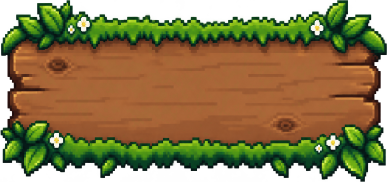
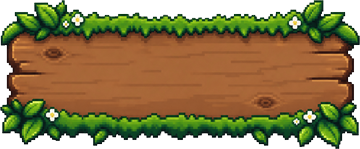
Нормализация спрайтов 64x64, роли 48x48, кнопки 360; версия 1.0.28

diff --git a/core/src/main/kotlin/com/catsandmouses/entities/Mouse.kt b/core/src/main/kotlin/com/catsandmouses/entities/Mouse.kt
@@ -86,6 +86,9 @@ class Mouse(private val maze: MazeLoader, startCol: Int, startRow: Int) {
     fun draw(spriteBatch: SpriteBatch, region: TextureRegion) {
         val size = SPRITE_SIZE
         val half = size / 2f
+        // Спрайт мыши теперь нарисован «вниз», как у котов;
+        // компенсируем разницу, чтобы мышь смотрела в направлении движения.
+        val renderRotation = rotation + SPRITE_ROTATION_OFFSET
         spriteBatch.draw(
             region,
             position.x - half,
@@ -96,13 +99,14 @@ class Mouse(private val maze: MazeLoader, startCol: Int, startRow: Int) {
             size,
             1f,
             1f,
-            rotation
+            renderRotation
         )
     }
 
     companion object {
         const val RADIUS = 15f
-        const val SPRITE_SIZE = 32f
+        const val SPRITE_SIZE = 48f
+        const val SPRITE_ROTATION_OFFSET = 90f
 
         private fun rotationFor(dir: Direction): Float = when (dir) {
             Direction.RIGHT -> 0f

diff --git a/core/src/main/kotlin/com/catsandmouses/Constants.kt b/core/src/main/kotlin/com/catsandmouses/Constants.kt
@@ -11,14 +11,14 @@ object Constants {
     const val HUD_HEIGHT = 56f
     const val BUTTON_WIDTH = 360f
     const val BUTTON_HEIGHT = 170f
-    const val HEART_SIZE = 28f
+    const val HEART_SIZE = 48f
     const val MAX_LIVES = 3
 
     const val MAZE_WIDTH = MAZE_COLS * CELL_SIZE
     const val MAZE_HEIGHT = MAZE_ROWS * CELL_SIZE
     const val MAZE_OFFSET_X = (WORLD_WIDTH - MAZE_WIDTH) / 2f
     const val MAZE_OFFSET_Y = (WORLD_HEIGHT - MAZE_HEIGHT - HUD_HEIGHT) / 2f + HUD_HEIGHT
-    const val VERSION = "1.0.27"
+    const val VERSION = "1.0.28"
 
     // Preferences
     const val PREFS_NAME = "catsandmouses"

diff --git a/core/src/main/kotlin/com/catsandmouses/entities/Cat.kt b/core/src/main/kotlin/com/catsandmouses/entities/Cat.kt
@@ -241,7 +241,7 @@ class Cat(
     }
 
     companion object {
-        const val SPRITE_SIZE = 50f
+        const val SPRITE_SIZE = 48f
         const val SPRITE_ROTATION_OFFSET = 90f
 
         private fun rotationFor(dir: Direction): Float = when (dir) {

diff --git a/core/src/main/kotlin/com/catsandmouses/entities/Pellet.kt b/core/src/main/kotlin/com/catsandmouses/entities/Pellet.kt
@@ -23,6 +23,6 @@ class Pellet(val cell: GridPoint2, private val maze: MazeLoader) {
     }
 
     companion object {
-        const val SPRITE_SIZE = 28f
+        const val SPRITE_SIZE = 48f
     }
 }

diff --git a/GAME.md b/GAME.md
@@ -129,7 +129,7 @@ CATS AND MOUSES/
 - **Движение**: строго по сетке, поворот только в центре клетки
 - **Управление Desktop**: WASD или стрелки; **Space** — пауза/продолжение
     - **Управление Android**: свайпы вверх/вниз/влево/вправо (порог 40 экранных пикселей)
-- **Внешний вид**: спрайт `mouse.png` (70×70 исходник, на экране 32×32), серый цвет с тёмным контуром, хвост виден; спрайт поворачивается по направлению движения
+- **Внешний вид**: спрайт `mouse.png` (64×64 холст, контент 48×64 «носом вниз», на экране 48×48), серый цвет с тёмным контуром, хвост виден; спрайт поворачивается по направлению движения
 
 ### Четыре кота (враги)
 Все коты движутся по сетке со скоростью **120 пикселей/сек**, не проходят сквозь стены, не разворачиваются на 180° вне перекрёстков. Отличаются стратегией:
@@ -158,12 +158,12 @@ CATS AND MOUSES/
 
 ## Визуальные заглушки
 
-Спрайты сейчас **частично заменены** на пиксель-арт (размер файла = контент, без лишних полей — рендер растягивает весь канвас на экранный прямоугольник):
+Спрайты сейчас **частично заменены** на пиксель-арт. Персонажи и сердечки — прозрачные холсты **64×64** с контентом по центру (роль на экране **48×48**; холст соизмерим с ролью, поэтому визуально не теряется), стены/фон — тайлы 40×40:
 - Фон — бесшовная трава (`assets/themes/grass/background.png`, 200×200, непрозрачная), тайлы 40×40 по всей площади лабиринта
 - Стены — тема «Трава и кусты»: основной куст `assets/themes/grass/wall_0.png` (88×88), в `extrasCountMin..Max` (3–6) случайных стенных клетках вместо него рисуется случайный доп `wall_1..3.png` (цветущий куст 114×114, камень 34×34, дерево 32×32); всё — 16-bit пиксель-арт, прозрачный фон, тайлы 40×40
-- Сыр — спрайт `cheese.png` (26×26 исходник, 28×28 на экране), прозрачный фон, 16-bit пиксель-арт
-- Мышь — спрайт `mouse.png` (70×70 исходник, 32×32 на экране), поворачивается по направлению движения
-- Коты — спрайты `cat_chaser.png`, `cat_patrol.png`, `cat_random.png`, `cat_ambush.png` (44–66 исходники, 50×50 на экране), поворачиваются по направлению движения
+- Сыр — спрайт `cheese.png` (64×64 холст, контент 57×64; 48×48 на экране), прозрачный фон, 16-bit пиксель-арт
+- Мышь — спрайт `mouse.png` (64×64 холст, контент 48×64 «носом вниз»; 48×48 на экране, поворот +90° к спрайту), поворачивается по направлению движения
+- Коты — спрайты `cat_chaser.png`, `cat_patrol.png`, `cat_random.png`, `cat_ambush.png` (64×64 холст; 48×48 на экране, поворот +90°), поворачиваются по направлению движения
 
 **Планируется**: доработать поведение 4-го кота при балансировке сложности; сохранить/продолжить этап 1 — спрайты котов подключены.
 
@@ -290,6 +290,7 @@ Invoke-RestMethod -Uri http://localhost:8080/input -Method POST -ContentType "ap
   40. ✅ Этап 8 — Меню и HUD: добавлен `LoadingScreen` с логотипом и полоской прогресса, `MainMenuScreen` с кнопками «Играть»/«Продолжить»/«Выход», UI-примитивы (`UiButton`, `UiPanel`, `UiDialog`), HUD-плашка с сердечками и рекордом, оверлеи паузы/Game Over/Win/«Выйти?». Сгенерированы спрайты UI и сердечек через SpriteCook (`gpt-image-2.5-flare`). Сохранение прогресса в `Preferences`. Версия `1.0.26`, `BUILD SUCCESSFUL`, Desktop-запуск проверен.
 41. ✅ Исправлен фон `LoadingScreen`: текстура `themes/grass/background.png` грузилась каждый кадр и удалялась (`dispose()`) до `batch.end()` — тайлы фона рисовались с удалённой GL-текстурой → «плашка Загрузка... N%» показывалась на чёрном фоне. Теперь фон (как в `MainMenuScreen`) грузится один раз в `show()`, живёт до `dispose()`. Проверено `.\\gradlew build` — `BUILD SUCCESSFUL`, Desktop-запуск (Loading → Menu) без ошибок.
 42. ✅ Исправлены кнопки меню: `button.png` (398×453) имел непрозрачное «лицо» лишь 40% высоты внизу холста — при растяжке в бокс 280×216 видимая кнопка получалась ~84px вместо задуманных 216. Кнопки обрезаны до непрозрачных границ (`button.png` → 387×182, `button_pressed.png` → 115×64; RAW-мастера целы в `assets/ui/raw/`), размер кнопки в `Constants.kt` приведён к пропорции арта: `BUTTON_WIDTH 360` / `BUTTON_HEIGHT 170`. Группа кнопок меню центрируется по вертикали (зазор 30px), при нехватке места — прижимается к краям без обрезки. Изначально высота группы считалась по пустому `buttons` (кнопки ещё не добавлены) → `startY` уезжал вниз; исправлено на `buttonList`. Проверено `.\\gradlew build` — `BUILD SUCCESSFUL`, Desktop-запуск (Loading → Menu, клик по кнопке).
+43. ✅ Нормализация спрайтов: 8 игровых спрайтов (мышь, сыр, 4 кота, 2 сердечка) перегенерированы из RAW-мастеров в прозрачные холсты **64×64** с контентом по центру (обрезка по видимым пикселям alpha>10, масштаб ланцошем); мышь переориентирована «носом вниз». Все роли на экране — **48×48**: `Mouse.kt` `SPRITE_SIZE 32→48` + `SPRITE_ROTATION_OFFSET=90f`, `Cat.kt` `50→48`, `Pellet.kt` `28→48`, `Constants.HEART_SIZE 28→48`. Кнопки переобработаны из raw 2K с сохранением пропорций: `button.png` → **360×149**, `button_pressed.png` → **360×175** (ширина 360 — размер `BUTTON_WIDTH`). `raw/mouse.png` оказался JPEG (магические байты JFIF, хотя SpriteCook отдаёт Content-Type image/png) → конвертирован на месте в PNG 1024×1024 (ключевание белого фона с мягкой кромкой); теперь все raw — PNG. В `AGENTS.md` закреплены правила: только raw PNG (1024/2K/4K, pixel-варианты не для игры), не-PNG → конвертация с сообщением, обрезка по alpha>10. Метамданные: `asset-manifest.json` актуализирован (dims/content) + создан человекочитаемый `asset-manifest.md`.
 
 ## Следующие шаги (план)
 
@@ -297,6 +298,7 @@ Invoke-RestMethod -Uri http://localhost:8080/input -Method POST -ContentType "ap
 1. ✅ Убедиться, что игра работает после восстановления кэша.
 2. ✅ Подключить спрайты вместо заглушек: фоновая трава и стены-кусты.
 3. ✅ Сыр (пеллета) вместо белых кружков: спрайт `cheese.png`, подключён и проверен в игре.
+4. ✅ Нормализация спрайтов (статус 43): холсты 64×64, роли 48×48, кнопки 360 по ширине, все raw — PNG.
 
 Этапы к финишу — **публикация в RuStore**:
 

diff --git a/AGENTS.md b/AGENTS.md
@@ -95,7 +95,18 @@ GAME.md      Полное описание проекта и дизайна
 - стены/фон темы → `assets/themes/<тема>/raw/<имя>.png`
 - иконка/прочие → свои папки (например `assets/icon/raw.png`)
 
-Записывай соответствие `asset_id` → пути (игровой спрайт + raw) в **`assets/asset-manifest.json`** (ключ — `asset_id`, стабилен на сайте) и в `GAME.md` (раздел «Текущий статус»). RAW — полноразмерный мастер (обычно 1024×1024): из него в будущем можно перегенерировать/масштабировать игровые спрайты без потери качества и без повторной платной генерации.
+Записывай соответствие `asset_id` → пути (игровой спрайт + raw) в **`assets/asset-manifest.json`** (ключ — `asset_id`, стабилен на сайте) и рядом в **`assets/asset-manifest.md`** (человекочитаемая таблица для визуального контроля, обновлять вместе с JSON), а также в `GAME.md` (раздел «Текущий статус»). RAW — полноразмерный мастер (1024×1024 / 2K / 4K — какое есть): из него в будущем можно перегенерировать/масштабировать игровые спрайты без потери качества и без повторной платной генерации.
+
+### Шаг 8: RAW — только PNG
+- При генерации запрашивай ТОЛЬКО **RAW-версию** (`raw_url`), в том разрешении, которое даёт сайт (1024×1024 / 2K / 4K — какое есть). **Pixel-варианты (`pixel_url`) как источник для игры НЕ используй** — игровой размер делается локально из raw.
+- Формат проверяй по **магическим байтам файла**, НЕ по Content-Type (SpriteCook может отдавать JPEG-байты с заголовком `image/png`).
+- Если полученный raw — НЕ PNG (например JPEG): конвертируй его **на месте в PNG** (для JPEG — ключевание белого фона в прозрачность с мягкой кромкой) и **выведи сообщение пользователю**, например: «Файл X был JPEG → конвертирован в PNG». Разрешения спрашивать НЕ нужно.
+
+### Конвенции по спрайтам
+- **Все спрайты** = прозрачный PNG, обрезанный по краю видимой картинки.
+- В raw-файлах может быть слабый полупрозрачный ореол/шум (alpha 1–9) — при обрезке резать по порогу **alpha > 10**, а не по нулю.
+- Для детализированных raw (не пиксель-арт) ресайз делать ЛАНЦОШЕМ (LANCZOS), не Nearest.
+- **Квадратный канвас** и нестандартный экранный размер — только для спрайтов, названных явно.
 
 ### Жёсткие ограничения
 - НЕ запускай генерацию без явного подтверждения модели пользователем.

diff --git a/assets/asset-manifest.md b/assets/asset-manifest.md
@@ -1,0 +1,25 @@
+# Манифест ассетов (человекочитаемая таблица)
+
+Машиночитаемая версия — `asset-manifest.json` (ключ — стабильный `asset_id` SpriteCook). Обновлять оба файла вместе.
+
+«Размер файла» — размер игрового файла (холст/канвас). «Реальный размер» — видимая часть картинки внутри холста (контент, обрезанный по alpha>10).
+
+| asset_id (короткий) | Название | Игровой файл | Размер файла (холст) | Реальный размер (контент) | RAW-мастер |
+|---|---|---|---|---|---|
+| `086c09eb` | мышь (игрок), top-down, серая, 16-bit | `sprites/mouse.png` | 64×64 | 48×64 (нос вниз) | `sprites/raw/mouse.png` 1024×1024 (PNG) |
+| `f2cc9aab` | сыр (собираемый), top-down | `sprites/cheese.png` | 64×64 | 57×64 | `sprites/raw/cheese.png` 1024×1024 |
+| `1297baca` | кот Chaser (красный) | `sprites/cat_chaser.png` | 64×64 | 44×64 | `sprites/raw/cat_chaser.png` 1024×1024 |
+| `6da9d056` | кот Patrol (синий) | `sprites/cat_patrol.png` | 64×64 | 48×64 | `sprites/raw/cat_patrol.png` 1024×1024 |
+| `15b2af49` | кот Random (фиолетовый) | `sprites/cat_random.png` | 64×64 | 36×64 | `sprites/raw/cat_random.png` 1024×1024 |
+| `273f07ad` | кот Ambush (тёмно-серый) | `sprites/cat_ambush.png` | 64×64 | 24×64 | `sprites/raw/cat_ambush.png` 1024×1024 |
+| `e54c495a` | иконка приложения | `icon/app_icon.png` | 1024×1024 | 1024×1024 | `icon/raw.png` 2048×2048 |
+| `cd669f6b` | куст (стена), тема «трава» | `themes/grass/wall_0.png` | 88×88 | 88×88 | `themes/grass/raw/wall_0.png` 1024×1024 |
+| `7597fe5e` | куст цветущий (стена) | `themes/grass/wall_1.png` | 114×114 | 114×114 | `themes/grass/raw/wall_1.png` 1024×1024 |
+| `a5e713e8` | камень (стена) | `themes/grass/wall_2.png` | 34×34 | 34×34 | `themes/grass/raw/wall_2.png` 1024×1024 |
+| `5cafc564` | дерево (стена) | `themes/grass/wall_3.png` | 32×32 | 32×32 | `themes/grass/raw/wall_3.png` 1024×1024 |
+| `9b23ff34` | фон темы «трава» (тайловый) | `themes/grass/background.png` | 200×200 | 200×200 | `themes/grass/raw/background.png` 1024×1024 |
+| `52e2e7e3` | сердечко полное | `sprites/heart_full.png` | 64×64 | 64×59 | `sprites/raw/heart_full.png` 1024×1024 |
+| `c0225f37` | сердечко пустое (контур) | `sprites/heart_empty.png` | 64×64 | 64×55 | `sprites/raw/heart_empty.png` 1024×1024 |
+| `dd02ce39` | кнопка UI, normal | `ui/button.png` | 360×149 | 360×149 | `ui/raw/button.png` 2048×2048 |
+| `f93b03d6` | кнопка UI, pressed | `ui/button_pressed.png` | 360×175 | 360×175 | `ui/raw/button_pressed.png` 2048×2048 |
+| `7720de56` | логотип экрана загрузки | `ui/loading_logo.png` | 102×102 | 102×102 | `ui/raw/loading_logo.png` 2048×2048 |

diff --git a/CHANGELOG.md b/CHANGELOG.md
@@ -2,6 +2,19 @@
 
 Все заметные изменения проекта **CATS AND MOUSES**. Формат — [Keep a Changelog](https://keepachangelog.com/ru/1.1.0/), версионирование — [SemVer](https://semver.org/lang/ru/).
 
+## [1.0.28] — 2026-09-15
+
+### Добавлено
+- `assets/asset-manifest.md` — человекочитаемая таблица манифеста ассетов (рядом с JSON).
+- Правила генерации в `AGENTS.md`: только RAW-версия PNG (1024/2K/4K как есть), pixel-варианты для игры не использовать, формат проверять по магическим байтам (не Content-Type), не-PNG → конвертация на месте с сообщением пользователю, обрезка по видимому краю (alpha > 10), ресайз ланцошем.
+
+### Изменено
+- Спрайты: 8 игровых спрайтов (мышь, сыр, 4 кота, 2 сердечка) перегенерированы из RAW-мастеров в прозрачные холсты 64×64 с контентом по центру; мышь переориентирована «носом вниз». Кнопки переобработаны из raw 2K с сохранением пропорций: `ui/button.png` → 360×149, `ui/button_pressed.png` → 360×175.
+- Размеры ролей на экране → 48×48: `Mouse.kt` `SPRITE_SIZE 32→48` + `SPRITE_ROTATION_OFFSET=90f`, `Cat.kt` `50→48`, `Pellet.kt` `28→48`, `Constants.kt` `HEART_SIZE 28→48`.
+- `assets/raw/mouse.png` конвертирован из JPEG в PNG 1024×1024 (ключевание белого фона) — теперь все raw — PNG.
+- `asset-manifest.json`: актуализированы `dims`/`content`, добавлено человекочитаемое `asset-manifest.md`.
+- Документация `GAME.md`: актуализированы описания спрайтов и «Текущий статус» (статус 43).
+
 ## [1.0.27] — 2026-09-14
 
 ### Исправлено
